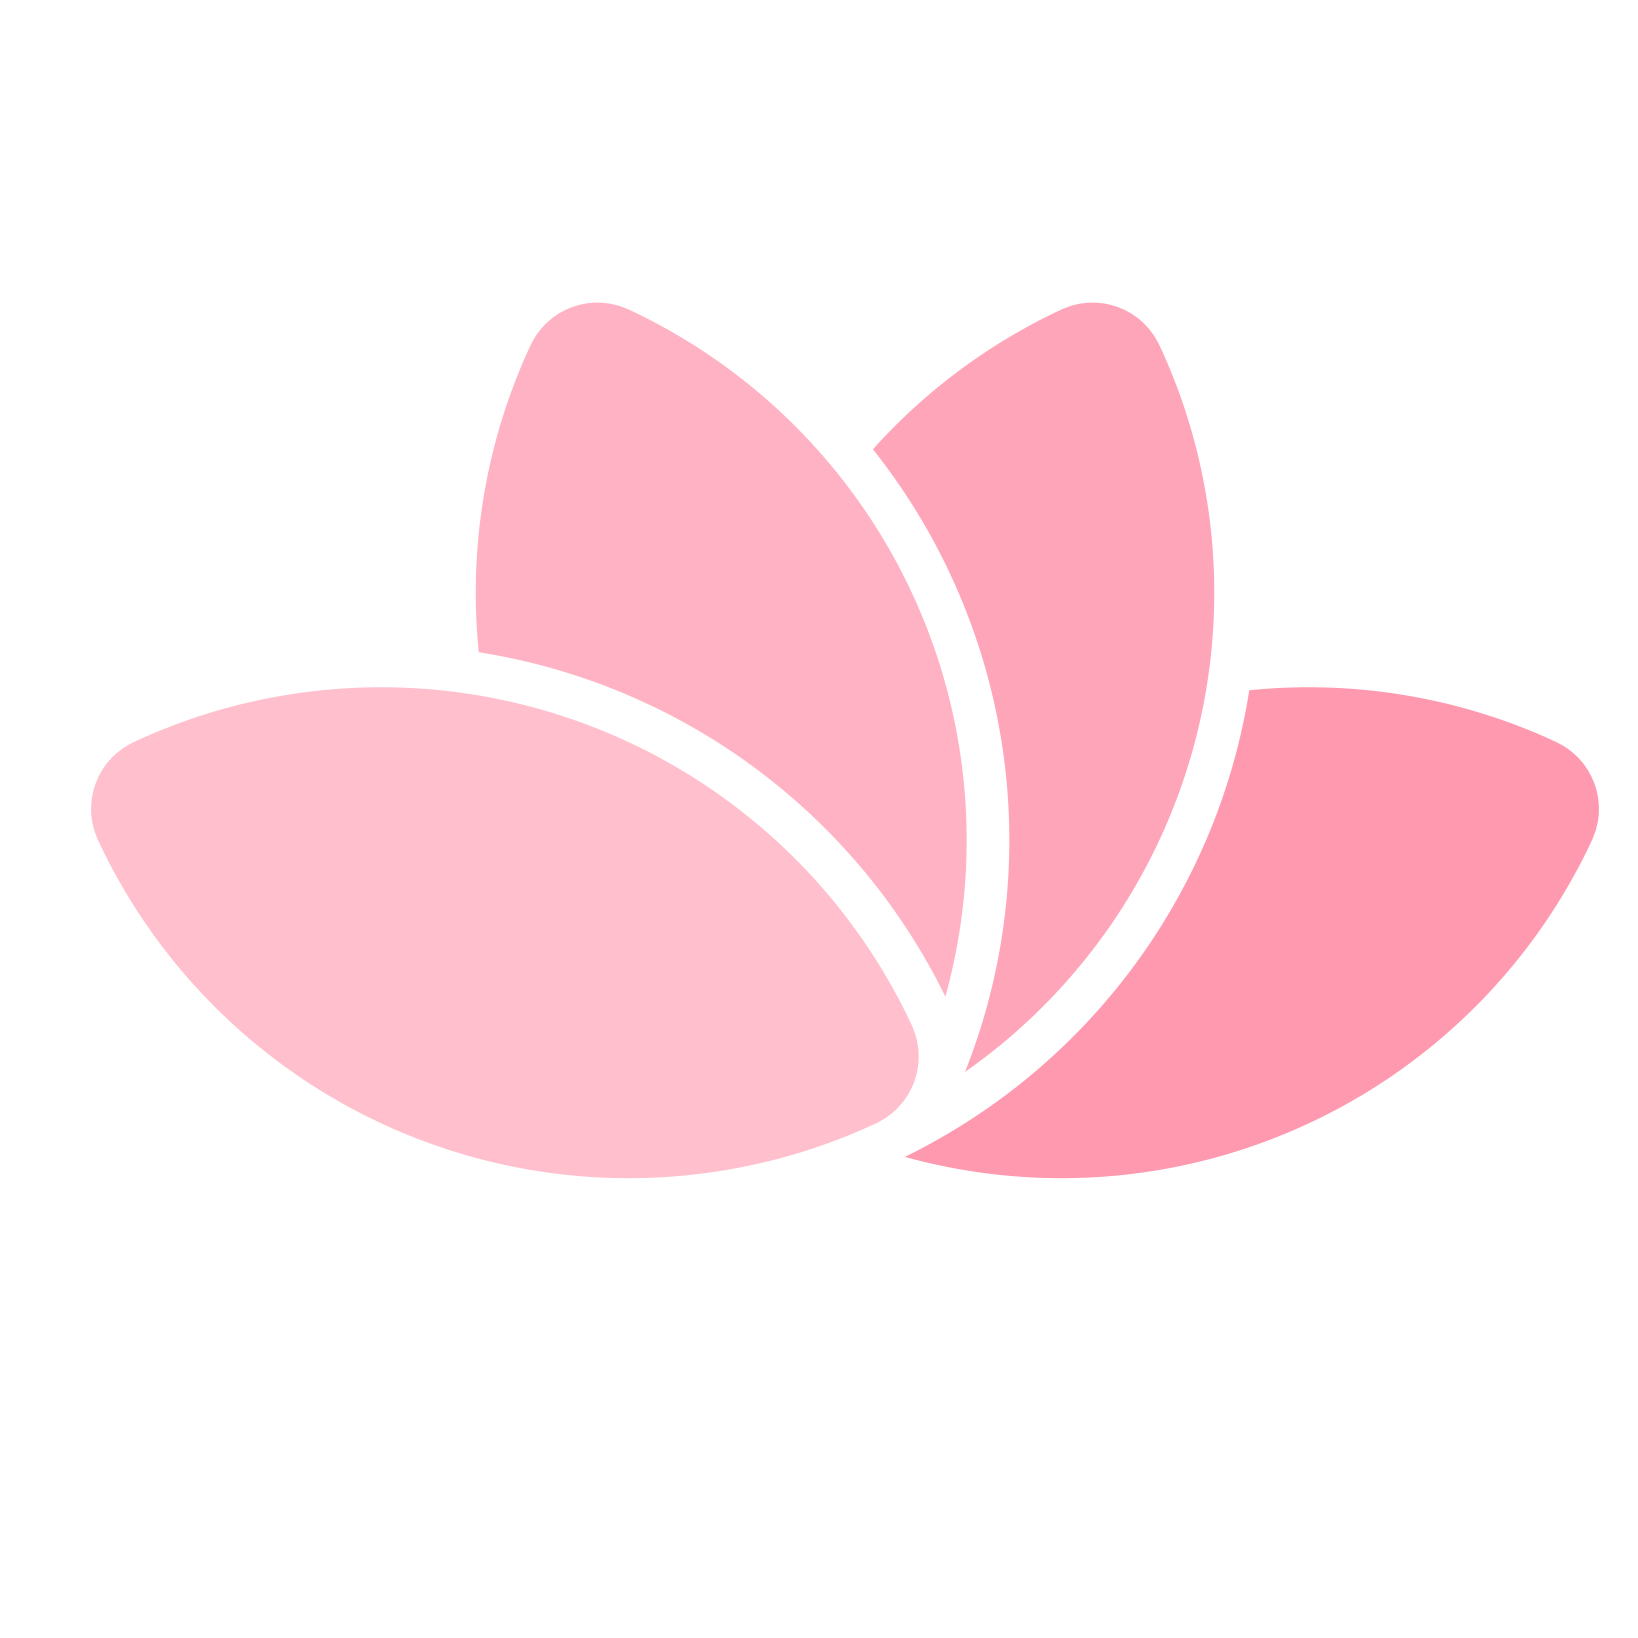
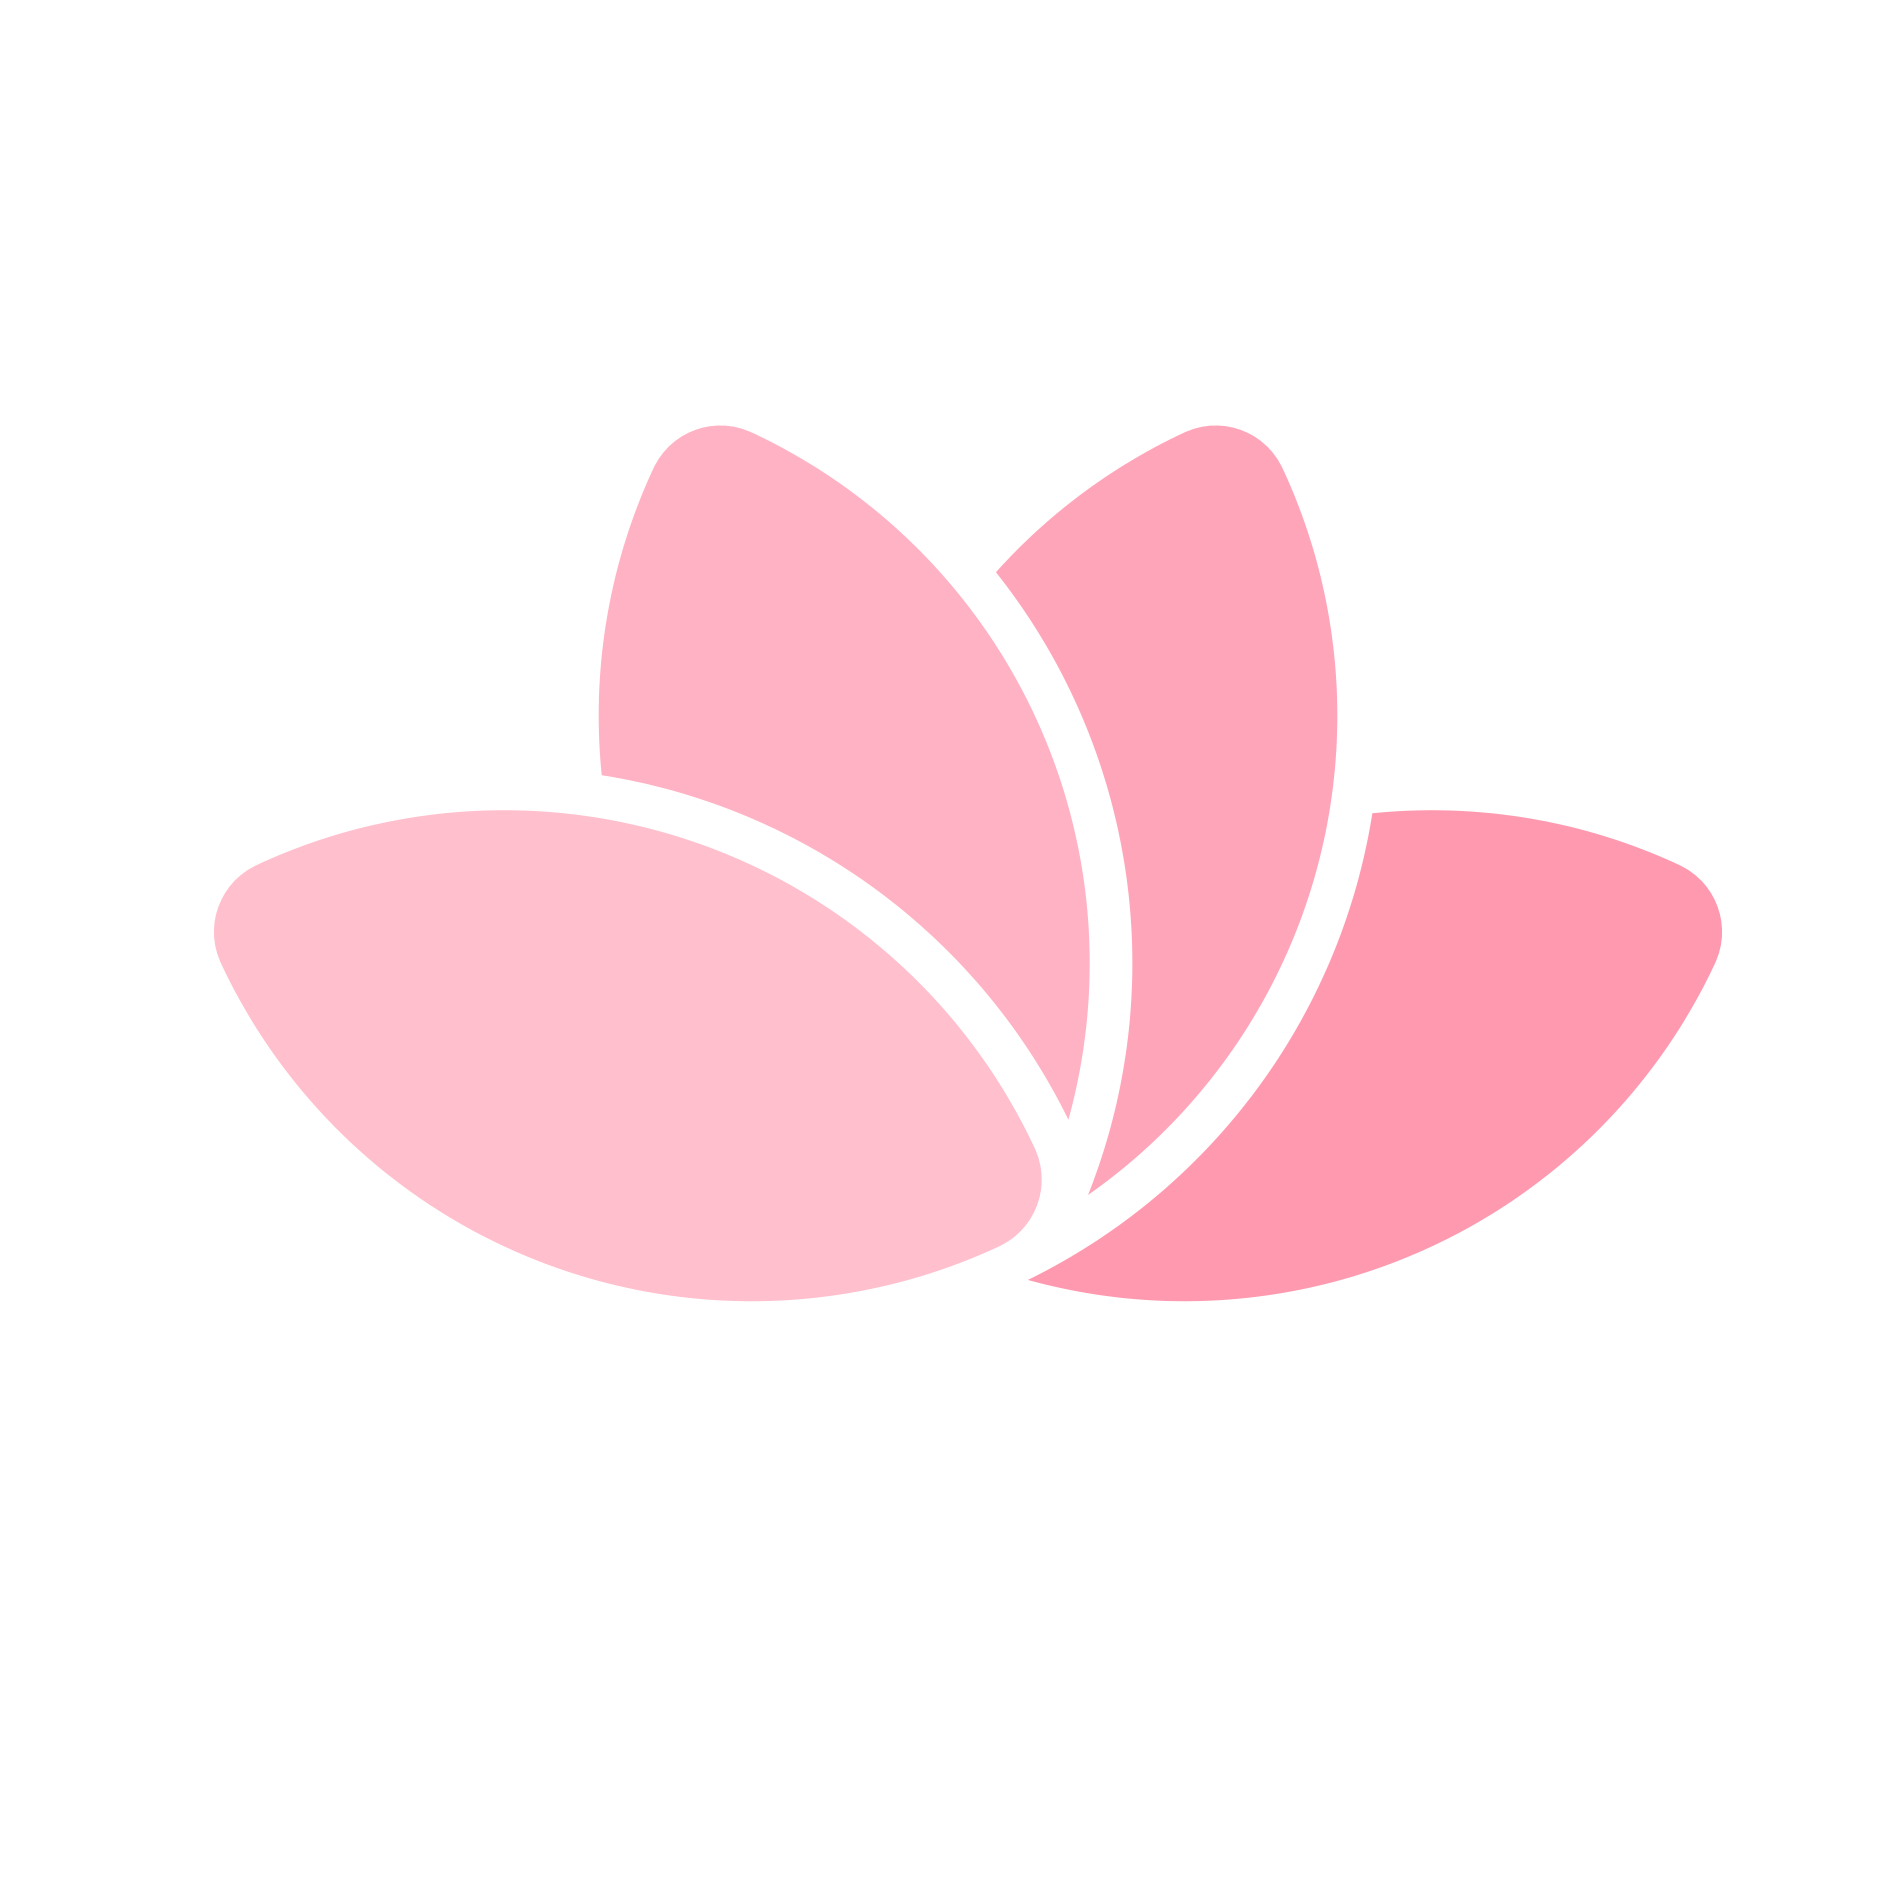
ok

diff --git a/flower_masked_rounded.py b/flower_masked_rounded.py
@@ -7,13 +7,13 @@ end_hex = "#ff99af"
 
 # ==================== 圆角配置参数 ====================
 # SDF 阈值：距离原始花瓣 ≤ d 的区域填充（形成圆角）
-d = 8  # 可根据需要调整，越大圆角越明显
+d = 14.4 # 可根据需要调整，越大圆角越明显
 
 # ======================================================
 
 # 两个等圆的参数
 r = 100  # 圆的半径
-d_circle = r * math.sqrt(2)  # 圆心距离，使得圆心角为 90 度
+d_circle = r * (math.sqrt(2) + 0.0)  # 圆心距离，使得圆心角为 90 度
 
 # 计算交点
 intersection_y = math.sqrt(r**2 - (d_circle / 2) ** 2)

diff --git a/svg_to_png.py b/svg_to_png.py
@@ -116,4 +116,4 @@ def svg_to_png(svg_path, png_path, canvas_size=4096, scale=0.4):
 
 
 if __name__ == "__main__":
-    svg_to_png("flower_masked_rounded.svg", "flower_masked_rounded.png", canvas_size=4096, scale=0.4)
+    svg_to_png("flower_masked_rounded.svg", "flower_masked_rounded.png", canvas_size=4096, scale=0.46)
